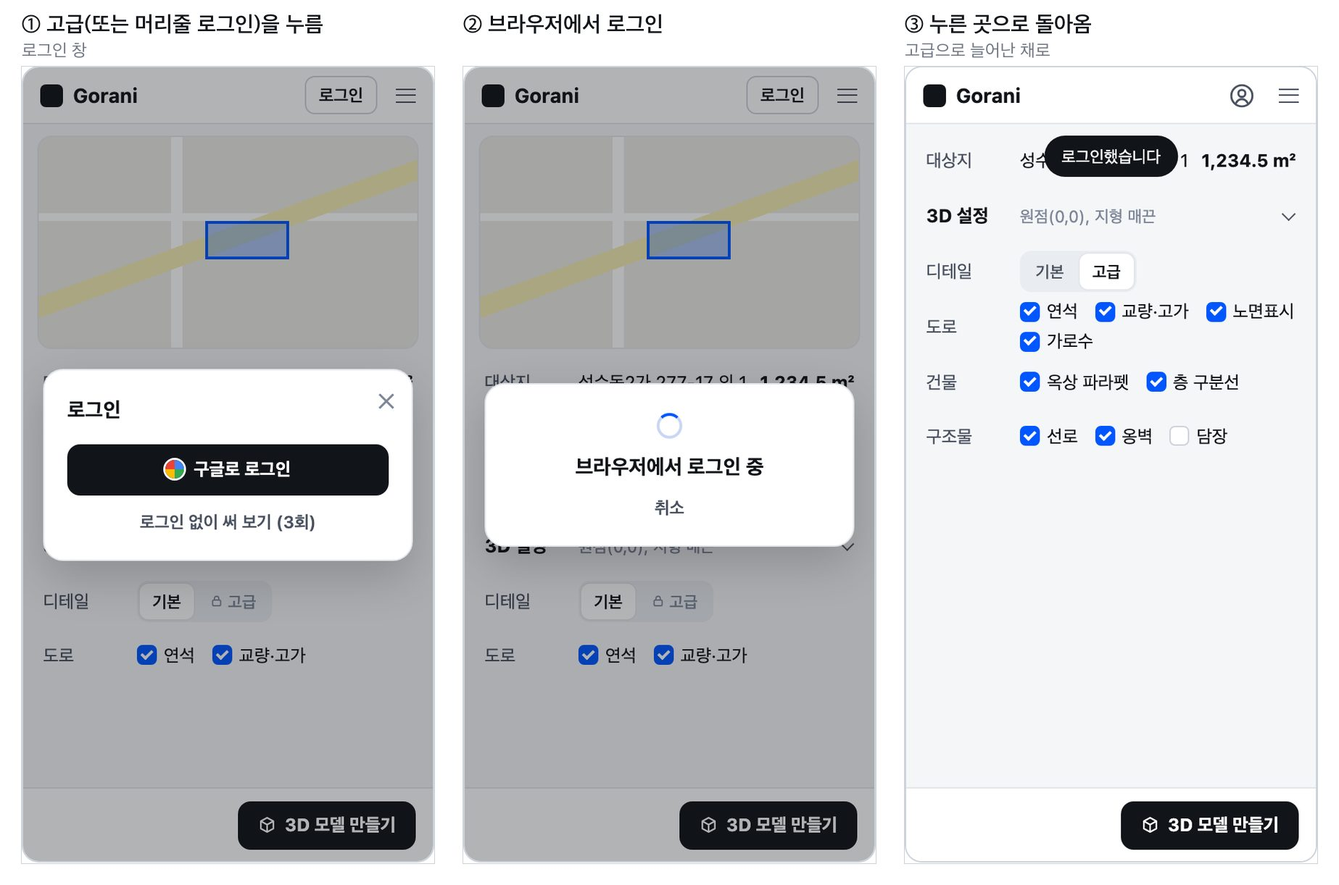
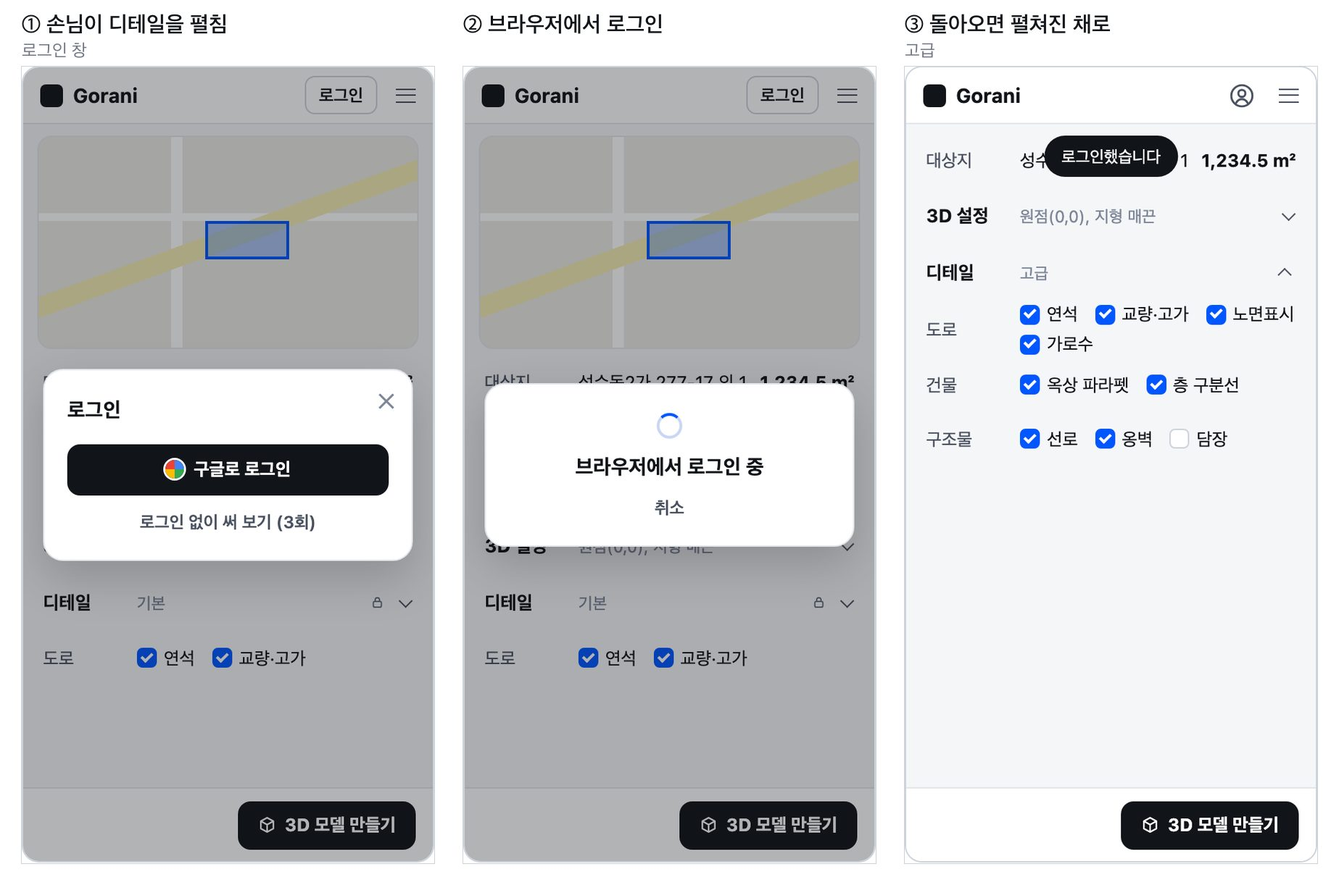
docs: 회원 계획 — 디테일은 단추 없이 3D 설정과 같은 접는 줄(접힘 = 기본, 펼침 = 고급), 와이어프레임 v19

diff --git a/docs/preview/account/wireframe.html b/docs/preview/account/wireframe.html
@@ -216,6 +216,8 @@
   .pn .acpop .r .m { color: #7d8798; }
   .pn .hrow .st { flex: none; width: 26px; height: 26px; display: inline-grid; place-items: center; color: #aab2bd; font-size: 16px; }
   .pn .hrow .st.on { color: #111418; }
+</style><style>
+  .pn .dlk { color: #5f6878; display: inline-flex; margin-right: 2px; }
 </style></head>
 <body>
 <svg width="0" height="0" style="position:absolute">
@@ -224,4 +226,4 @@
   <symbol id="cube" viewBox="0 0 16 16"><path d="M8 1.8l5.4 3v6.4L8 14.2l-5.4-3V4.8z M2.6 4.8L8 7.8l5.4-3 M8 7.8v6.4" fill="none" stroke="currentColor" stroke-width="1.4" stroke-linejoin="round"/></symbol>
 </svg>
 
-<h1>Gorani 회원·고급 디테일 — 와이어프레임 v18</h1><p class="lead">꾸밈과 안내 문구 없이 지금 패널의 줄·단추 꼴만 씁니다. 손님은 머리줄 [로그인], 회원은 그 자리에 계정 기호. 디테일 줄은 [기본 | 고급] 단추 그 자체 — 고급을 고르면 늘어나고 기본을 고르면 접힙니다. 로딩·결과 화면은 지금 그대로.</p><h2>A. 고급 디테일</h2><div class="flow"><div class="step"><p class="cap">A1 손님 · 지도 화면</p><div class="pn"><div class="hd"><span class="logo"></span><span class="wm">Gorani</span><span class="login">로그인</span><span class="burger"></span></div><div class="map"><i></i></div><div class="tray" style="padding-top:4px"><div class="trow"><span class="lbl">대상지</span><span class="val">성수동2가 277-17 외 1</span><span class="area">1,234.5 m²</span></div><div class="trow"><span class="lbl">범위</span><span class="seg"><b>원</b><b class="on">사각형</b></span></div><div class="trow"><span class="lbl">한 변</span><span class="seg"><b>500</b><b class="on">1,000</b><b>2,000</b><b>직접</b></span></div><div class="sec"><span class="t">3D 설정</span><span class="s">원점(0,0), 지형 매끈</span><span class="chev"></span></div><div class="trow"><span class="lbl">디테일</span><span class="seg"><b class="on">기본</b><b class="lkd"><svg width="10" height="10"><use href="#lock"/></svg>고급</b></span></div><div class="trow"><span class="lbl">도로</span><span class="chks"><span class="ck"><span class="box on"></span>연석</span><span class="ck"><span class="box on"></span>교량·고가</span></span></div></div><div class="foot"><span class="mk"><svg width="13" height="13"><use href="#cube"/></svg>3D 모델 만들기</span></div></div><p class="note">디테일 줄 = [기본 | 고급] 단추 그 자체. 기본이면 도로(연석·교량·고가)만. 손님은 고급에 자물쇠.</p></div><div class="step"><p class="cap">A2 고급(또는 머리줄 로그인)을 누르면</p><div class="pn"><div class="hd"><span class="logo"></span><span class="wm">Gorani</span><span class="login">로그인</span><span class="burger"></span></div><div class="map"><i></i></div><div class="tray" style="padding-top:4px"><div class="trow"><span class="lbl">대상지</span><span class="val">성수동2가 277-17 외 1</span><span class="area">1,234.5 m²</span></div><div class="trow"><span class="lbl">범위</span><span class="seg"><b>원</b><b class="on">사각형</b></span></div><div class="trow"><span class="lbl">한 변</span><span class="seg"><b>500</b><b class="on">1,000</b><b>2,000</b><b>직접</b></span></div><div class="sec"><span class="t">3D 설정</span><span class="s">원점(0,0), 지형 매끈</span><span class="chev"></span></div><div class="trow"><span class="lbl">디테일</span><span class="seg"><b class="on">기본</b><b class="lkd"><svg width="10" height="10"><use href="#lock"/></svg>고급</b></span></div><div class="trow"><span class="lbl">도로</span><span class="chks"><span class="ck"><span class="box on"></span>연석</span><span class="ck"><span class="box on"></span>교량·고가</span></span></div></div><div class="foot"><span class="mk"><svg width="13" height="13"><use href="#cube"/></svg>3D 모델 만들기</span></div><div class="veil"><div class="dlg min"><span class="x">✕</span><h4>로그인</h4><div class="pbtn"><span class="gg"></span>구글로 로그인</div><div class="sbtn">로그인 없이 써 보기 (3회)</div></div></div></div><p class="note">로그인 창. 두 번째 단추는 고급에서 열었을 때만.</p></div><div class="step"><p class="cap">A3 브라우저에서 로그인</p><div class="pn"><div class="hd"><span class="logo"></span><span class="wm">Gorani</span><span class="login">로그인</span><span class="burger"></span></div><div class="map"><i></i></div><div class="tray" style="padding-top:4px"><div class="trow"><span class="lbl">대상지</span><span class="val">성수동2가 277-17 외 1</span><span class="area">1,234.5 m²</span></div><div class="trow"><span class="lbl">범위</span><span class="seg"><b>원</b><b class="on">사각형</b></span></div><div class="trow"><span class="lbl">한 변</span><span class="seg"><b>500</b><b class="on">1,000</b><b>2,000</b><b>직접</b></span></div><div class="sec"><span class="t">3D 설정</span><span class="s">원점(0,0), 지형 매끈</span><span class="chev"></span></div><div class="trow"><span class="lbl">디테일</span><span class="seg"><b class="on">기본</b><b class="lkd"><svg width="10" height="10"><use href="#lock"/></svg>고급</b></span></div><div class="trow"><span class="lbl">도로</span><span class="chks"><span class="ck"><span class="box on"></span>연석</span><span class="ck"><span class="box on"></span>교량·고가</span></span></div></div><div class="foot"><span class="mk"><svg width="13" height="13"><use href="#cube"/></svg>3D 모델 만들기</span></div><div class="veil"><div class="dlg min" style="text-align:center"><div class="spin"></div><h4 style="margin:0 0 4px">브라우저에서 로그인 중</h4><div class="sbtn">취소</div></div></div></div><p class="note">로그인은 브라우저가 합니다.</p></div><div class="step"><p class="cap">A4 돌아오면 — 고급으로 늘어남</p><div class="pn"><div class="hd"><span class="logo"></span><span class="wm">Gorani</span><span class="acct"><svg width="18" height="18" viewBox="0 0 16 16" fill="none" stroke="currentColor" stroke-width="1.3"><circle cx="8" cy="8" r="6.6"/><circle cx="8" cy="6.5" r="2.2"/><path d="M4.4 12.4c.9-1.5 2.1-2.3 3.6-2.3s2.7.8 3.6 2.3" stroke-linecap="round"/></svg></span><span class="burger"></span></div><div class="tray" style="padding-top:6px"><div class="trow"><span class="lbl">대상지</span><span class="val">성수동2가 277-17 외 1</span><span class="area">1,234.5 m²</span></div><div class="sec"><span class="t">3D 설정</span><span class="s">원점(0,0), 지형 매끈</span><span class="chev"></span></div><div class="trow"><span class="lbl">디테일</span><span class="seg"><b>기본</b><b class="on">고급</b></span></div><div class="trow"><span class="lbl">도로</span><span class="chks"><span class="ck"><span class="box on"></span>연석</span><span class="ck"><span class="box on"></span>교량·고가</span><span class="ck"><span class="box on"></span>노면표시</span><span class="ck"><span class="box on"></span>가로수</span></span></div><div class="trow"><span class="lbl">건물</span><span class="chks"><span class="ck"><span class="box on"></span>옥상 파라펫</span><span class="ck"><span class="box on"></span>층 구분선</span></span></div><div class="trow"><span class="lbl">구조물</span><span class="chks"><span class="ck"><span class="box on"></span>선로</span><span class="ck"><span class="box on"></span>옹벽</span><span class="ck"><span class="box"></span>담장</span></span></div></div><div class="foot"><span class="mk"><svg width="13" height="13"><use href="#cube"/></svg>3D 모델 만들기</span></div><div class="toast">로그인했습니다</div></div><p class="note">고급이 눌리면 도로 줄에 노면표시·가로수가 붙고 건물·구조물 줄이 아래로 열립니다(트레이는 지금처럼 스크롤).</p></div><div class="step"><p class="cap">A5 회원 · 기본을 누르면 접힘</p><div class="pn"><div class="hd"><span class="logo"></span><span class="wm">Gorani</span><span class="acct"><svg width="18" height="18" viewBox="0 0 16 16" fill="none" stroke="currentColor" stroke-width="1.3"><circle cx="8" cy="8" r="6.6"/><circle cx="8" cy="6.5" r="2.2"/><path d="M4.4 12.4c.9-1.5 2.1-2.3 3.6-2.3s2.7.8 3.6 2.3" stroke-linecap="round"/></svg></span><span class="burger"></span></div><div class="map"><i></i></div><div class="tray" style="padding-top:4px"><div class="trow"><span class="lbl">대상지</span><span class="val">성수동2가 277-17 외 1</span><span class="area">1,234.5 m²</span></div><div class="trow"><span class="lbl">범위</span><span class="seg"><b>원</b><b class="on">사각형</b></span></div><div class="trow"><span class="lbl">한 변</span><span class="seg"><b>500</b><b class="on">1,000</b><b>2,000</b><b>직접</b></span></div><div class="sec"><span class="t">3D 설정</span><span class="s">원점(0,0), 지형 매끈</span><span class="chev"></span></div><div class="trow"><span class="lbl">디테일</span><span class="seg"><b class="on">기본</b><b>고급</b></span></div><div class="trow"><span class="lbl">도로</span><span class="chks"><span class="ck"><span class="box on"></span>연석</span><span class="ck"><span class="box on"></span>교량·고가</span></span></div></div><div class="foot"><span class="mk"><svg width="13" height="13"><use href="#cube"/></svg>3D 모델 만들기</span></div></div><p class="note">기본 = 접힌 상태. 따로 펼치기 단추가 없습니다.</p></div></div><h2>B. 처음 만들기·로딩·완료</h2><div class="flow"><div class="step"><p class="cap">B1 처음 [3D 모델 만들기] (한 번만)</p><div class="pn"><div class="hd"><span class="logo"></span><span class="wm">Gorani</span><span class="login">로그인</span><span class="burger"></span></div><div class="map"><i></i></div><div class="tray" style="padding-top:4px"><div class="trow"><span class="lbl">대상지</span><span class="val">성수동2가 277-17 외 1</span><span class="area">1,234.5 m²</span></div><div class="trow"><span class="lbl">범위</span><span class="seg"><b>원</b><b class="on">사각형</b></span></div><div class="trow"><span class="lbl">한 변</span><span class="seg"><b>500</b><b class="on">1,000</b><b>2,000</b><b>직접</b></span></div><div class="sec"><span class="t">3D 설정</span><span class="s">원점(0,0), 지형 매끈</span><span class="chev"></span></div><div class="trow"><span class="lbl">디테일</span><span class="seg"><b class="on">기본</b><b class="lkd"><svg width="10" height="10"><use href="#lock"/></svg>고급</b></span></div><div class="trow"><span class="lbl">도로</span><span class="chks"><span class="ck"><span class="box on"></span>연석</span><span class="ck"><span class="box on"></span>교량·고가</span></span></div></div><div class="foot"><span class="mk"><svg width="13" height="13"><use href="#cube"/></svg>3D 모델 만들기</span></div><div class="veil"><div class="dlg min"><span class="x">✕</span><h4>로그인</h4><div class="pbtn"><span class="gg"></span>구글로 로그인</div><div class="sbtn">로그인 없이 만들기</div></div></div></div><p class="note">같은 로그인 창. 고르면 바로 만듭니다.</p></div><div class="step"><p class="cap">B2 로딩 · 지금 화면 그대로</p><div class="pn"><div class="hd"><span class="logo"></span><span class="wm">Gorani</span><span class="login off">로그인</span><span class="burger"></span></div><div class="runcard"><div class="top"><h4>3D 모델 만드는 중</h4><span class="cancel"><i></i>취소</span></div><div class="meta">성수동2가 277-17 외 1, 1,234.5 m², 사각형 한 변 2,000 m · 기본</div><div class="trk"><div class="fl" style="width:50%"></div><span class="rn" style="left:calc((100% - 48px) * 0.5)"><svg xmlns="http://www.w3.org/2000/svg" width="48" height="36" viewBox="0 0 64 48"><g fill="none" stroke="currentColor" stroke-linecap="round" stroke-linejoin="round"><path d="M21.00 25.60L15.89 34.19" stroke-width="5"/><path d="M15.89 34.19L2.92 35.15" stroke-width="2.6"/><path d="M41.00 27.60L46.03 35.06" stroke-width="3.6"/><path d="M46.03 35.06L52.74 45.01" stroke-width="2.4"/><path d="M21.00 25.60L14.84 33.48" stroke-width="5"/><path d="M14.84 33.48L2.97 38.77" stroke-width="2.6"/><path d="M41.00 27.60L47.02 34.29" stroke-width="3.6"/><path d="M47.02 34.29L55.05 43.21" stroke-width="2.4"/></g><g fill="currentColor" transform="translate(0 1.60)"><path d="M13 21C13 14 20 11 27 13C33 15 39 17 44 19C49 21 49 29 43 30.5C35 32 26 31 19 29.5C15 28.5 13 25 13 21Z"/><path d="M40 21C43 15 47 11 51 9L56 13C52 17 48 23 46 29Z"/><path d="M49 7C53 4.5 58 6.5 62 11C63.5 13 62.5 15 60.5 15H54C50.5 15 48 11.5 49 7Z"/><path d="M51 8C49 3 45.5 0 42 0.5C42 4 45 8 49.5 11Z"/><path d="M14 17C12 14.5 11 12.5 11.5 11C13.5 12 15 14 16 16Z"/></g></svg></span></div><div class="pm"><span><b>50</b> %</span><span>0:14</span></div><ul class="ph"><li><span class="okk">✓</span>건물과 지형 불러오기<span class="det">건물 1,842동</span></li><li class="run"><span class="dot"></span>3D 모델 만들기</li><li class="pend"><span class="ring"></span>Rhino 파일에 넣기</li></ul><div class="rnote">Rhino 안에서 만들어 Rhino 화면이 잠깐씩 멈출 수 있습니다.</div></div><div class="logline">▸ 로그 자세히 보기 (1줄)</div></div><p class="note">만드는 동안 패널은 엔진을 기다려 다른 단추를 받지 않습니다 — 머리줄 [로그인]도 잠깁니다.</p></div><div class="step"><p class="cap">B3 생성 완료 — 지금과 같음</p><div class="pn"><div class="hd"><span class="logo"></span><span class="wm">Gorani</span><span class="login">로그인</span><span class="burger"></span></div><div class="card2"><h4>3D 모델 생성 완료 <span class="m">0:08</span><span class="sp"></span><span class="btnw" style="margin:0">폴더 열기</span></h4><div class="m">성수동2가 277-17 외 1, 1,234.5 m²</div></div><div class="card2"><h4>2D 자료도 만들까요?<span class="sp"></span><span class="btnw" style="margin:0">2D 자료 만들기</span></h4><div class="opt2"><span>▢</span><span>베이스맵<small>Illustrator 레이어 도면 (.ai)</small></span></div><div class="opt2"><span>▦</span><span>다이어그램<small>현황도와 분석도 (.svg, .ai)</small></span></div><div class="opt2"><span>▤</span><span>조서<small>필지와 건축물 표 (엑셀 CSV)</small></span></div></div></div><p class="note">결과 화면은 그대로. 손님이면 머리줄 [로그인]만.</p></div></div><h2>C. 생성 기록 — 회원만</h2><div class="flow"><div class="step"><p class="cap">C1 손님 · 지도(대상지 없음)</p><div class="pn"><div class="hd"><span class="logo"></span><span class="wm">Gorani</span><span class="login">로그인</span><span class="burger"></span></div><div class="map"></div><div class="tray"><div class="rech">최근 결과<span class="sp"></span></div><div class="rec"><span class="nm">성수동2가 277-17 외 1</span><span class="mt">3D, 2D · 11-14</span></div><div class="rec"><span class="nm">을지로3가 구역</span><span class="mt">3D · 11-14</span></div><div class="rec"><span class="nm">Shibuya, Tokyo</span><span class="mt">3D · 11-10</span></div></div><div class="foot"><span class="mk" style="opacity:.45"><svg width="13" height="13"><use href="#cube"/></svg>3D 모델 만들기</span></div></div><p class="note">손님에게는 생성 기록이 없습니다. '최근 결과'(지금 기능)는 그대로.</p></div><div class="step"><p class="cap">C2 회원 · 지도(대상지 없음)</p><div class="pn"><div class="hd"><span class="logo"></span><span class="wm">Gorani</span><span class="acct"><svg width="18" height="18" viewBox="0 0 16 16" fill="none" stroke="currentColor" stroke-width="1.3"><circle cx="8" cy="8" r="6.6"/><circle cx="8" cy="6.5" r="2.2"/><path d="M4.4 12.4c.9-1.5 2.1-2.3 3.6-2.3s2.7.8 3.6 2.3" stroke-linecap="round"/></svg></span><span class="burger"></span></div><div class="map"></div><div class="tray"><div class="rech">최근 결과<span class="sp"></span><a>생성 기록 ›</a></div><div class="rec"><span class="nm">성수동2가 277-17 외 1</span><span class="mt">3D, 2D · 11-14</span></div><div class="rec"><span class="nm">을지로3가 구역</span><span class="mt">3D · 11-14</span></div><div class="rec"><span class="nm">Shibuya, Tokyo</span><span class="mt">3D · 11-10</span></div></div><div class="foot"><span class="mk" style="opacity:.45"><svg width="13" height="13"><use href="#cube"/></svg>3D 모델 만들기</span></div></div><p class="note">회원에게만 '생성 기록 ›'.</p></div><div class="step"><p class="cap">C3 회원 · 생성 기록</p><div class="pn"><div class="hd"><span class="logo"></span><span class="wm">Gorani</span><span class="acct"><svg width="18" height="18" viewBox="0 0 16 16" fill="none" stroke="currentColor" stroke-width="1.3"><circle cx="8" cy="8" r="6.6"/><circle cx="8" cy="6.5" r="2.2"/><path d="M4.4 12.4c.9-1.5 2.1-2.3 3.6-2.3s2.7.8 3.6 2.3" stroke-linecap="round"/></svg></span><span class="burger"></span></div><div class="scr"><span class="back">← 지도로</span><span class="ttl">생성 기록</span></div><div class="segw" style="margin-top:10px"><span class="seg"><b class="on">전체</b><b>★</b></span></div><div class="grpd">오늘</div><div class="hrow"><span class="th"><i></i></span><span class="tx"><div class="nm">성수동2가 277-17 외 1</div><div class="mt">15:02 · 사각형 1 km · 고급</div></span><span class="st on">★</span></div><div class="hrow"><span class="th"><i></i></span><span class="tx"><div class="nm">을지로3가 구역</div><div class="mt">11:40 · 사각형 2 km · 기본</div></span><span class="st">☆</span></div><div class="grpd">이번 주</div><div class="hrow"><span class="th"><i></i></span><span class="tx"><div class="nm">연남동 239-5</div><div class="mt">11-09 · 원 500 m · 고급</div></span><span class="st">☆</span></div><div class="hrow"><span class="th"><i></i></span><span class="tx"><div class="nm">Shibuya, Tokyo</div><div class="mt">11-10 · 사각형 1 km · 기본</div></span><span class="st on">★</span></div></div><p class="note">검색 없음. 기록마다 오른쪽 ☆로 즐겨찾기, 위 [전체 | ★]로 거르기. PC 구분 없이 아이디 하나에 모은 기록.</p></div></div><h2>D. 계정</h2><div class="flow"><div class="step"><p class="cap">D1 회원 · 계정 기호를 누르면</p><div class="pn"><div class="hd"><span class="logo"></span><span class="wm">Gorani</span><span class="acct on"><svg width="18" height="18" viewBox="0 0 16 16" fill="none" stroke="currentColor" stroke-width="1.3"><circle cx="8" cy="8" r="6.6"/><circle cx="8" cy="6.5" r="2.2"/><path d="M4.4 12.4c.9-1.5 2.1-2.3 3.6-2.3s2.7.8 3.6 2.3" stroke-linecap="round"/></svg></span><span class="burger"></span></div><div class="map"><i></i></div><div class="tray" style="padding-top:4px"><div class="trow"><span class="lbl">대상지</span><span class="val">성수동2가 277-17 외 1</span><span class="area">1,234.5 m²</span></div><div class="trow"><span class="lbl">범위</span><span class="seg"><b>원</b><b class="on">사각형</b></span></div><div class="trow"><span class="lbl">한 변</span><span class="seg"><b>500</b><b class="on">1,000</b><b>2,000</b><b>직접</b></span></div><div class="sec"><span class="t">3D 설정</span><span class="s">원점(0,0), 지형 매끈</span><span class="chev"></span></div><div class="trow"><span class="lbl">디테일</span><span class="seg"><b class="on">기본</b><b>고급</b></span></div><div class="trow"><span class="lbl">도로</span><span class="chks"><span class="ck"><span class="box on"></span>연석</span><span class="ck"><span class="box on"></span>교량·고가</span></span></div></div><div class="foot"><span class="mk"><svg width="13" height="13"><use href="#cube"/></svg>3D 모델 만들기</span></div><div class="acpop"><div class="r"><span class="v">name@gmail.com</span><span class="btnw" style="margin:0">로그아웃</span></div><div class="r"><span class="v">생성 기록</span><span class="m">23 ›</span></div></div></div><p class="note">메일·[로그아웃]과 생성 기록. 더보기 메뉴(설정·도움)는 지금과 같습니다.</p></div></div></body></html>
+<h1>Gorani 회원·고급 디테일 — 와이어프레임 v19</h1><p class="lead">꾸밈과 안내 문구 없이 지금 패널의 줄·단추 꼴만 씁니다. 손님은 머리줄 [로그인], 회원은 그 자리에 계정 기호. 디테일은 3D 설정과 같은 접는 줄 — 펼치면 고급(늘어남), 접으면 기본. 요약에 기본·고급이 늘 보입니다. 로딩·결과 화면은 지금 그대로.</p><h2>A. 고급 디테일</h2><div class="flow"><div class="step"><p class="cap">A1 손님 · 지도 화면</p><div class="pn"><div class="hd"><span class="logo"></span><span class="wm">Gorani</span><span class="login">로그인</span><span class="burger"></span></div><div class="map"><i></i></div><div class="tray" style="padding-top:4px"><div class="trow"><span class="lbl">대상지</span><span class="val">성수동2가 277-17 외 1</span><span class="area">1,234.5 m²</span></div><div class="trow"><span class="lbl">범위</span><span class="seg"><b>원</b><b class="on">사각형</b></span></div><div class="trow"><span class="lbl">한 변</span><span class="seg"><b>500</b><b class="on">1,000</b><b>2,000</b><b>직접</b></span></div><div class="sec"><span class="t">3D 설정</span><span class="s">원점(0,0), 지형 매끈</span><span class="chev"></span></div><div class="sec"><span class="t">디테일</span><span class="s">기본</span><span class="dlk"><svg width="10" height="10"><use href="#lock"/></svg></span><span class="chev"></span></div><div class="trow"><span class="lbl">도로</span><span class="chks"><span class="ck"><span class="box on"></span>연석</span><span class="ck"><span class="box on"></span>교량·고가</span></span></div></div><div class="foot"><span class="mk"><svg width="13" height="13"><use href="#cube"/></svg>3D 모델 만들기</span></div></div><p class="note">디테일은 3D 설정과 같은 접는 줄. 접힘 = 기본(도로: 연석·교량·고가). 손님은 ▾ 앞에 자물쇠.</p></div><div class="step"><p class="cap">A2 손님이 펼치면</p><div class="pn"><div class="hd"><span class="logo"></span><span class="wm">Gorani</span><span class="login">로그인</span><span class="burger"></span></div><div class="map"><i></i></div><div class="tray" style="padding-top:4px"><div class="trow"><span class="lbl">대상지</span><span class="val">성수동2가 277-17 외 1</span><span class="area">1,234.5 m²</span></div><div class="trow"><span class="lbl">범위</span><span class="seg"><b>원</b><b class="on">사각형</b></span></div><div class="trow"><span class="lbl">한 변</span><span class="seg"><b>500</b><b class="on">1,000</b><b>2,000</b><b>직접</b></span></div><div class="sec"><span class="t">3D 설정</span><span class="s">원점(0,0), 지형 매끈</span><span class="chev"></span></div><div class="sec"><span class="t">디테일</span><span class="s">기본</span><span class="dlk"><svg width="10" height="10"><use href="#lock"/></svg></span><span class="chev"></span></div><div class="trow"><span class="lbl">도로</span><span class="chks"><span class="ck"><span class="box on"></span>연석</span><span class="ck"><span class="box on"></span>교량·고가</span></span></div></div><div class="foot"><span class="mk"><svg width="13" height="13"><use href="#cube"/></svg>3D 모델 만들기</span></div><div class="veil"><div class="dlg min"><span class="x">✕</span><h4>로그인</h4><div class="pbtn"><span class="gg"></span>구글로 로그인</div><div class="sbtn">로그인 없이 써 보기 (3회)</div></div></div></div><p class="note">펼치기 = 고급이라 로그인 창.</p></div><div class="step"><p class="cap">A3 브라우저에서 로그인</p><div class="pn"><div class="hd"><span class="logo"></span><span class="wm">Gorani</span><span class="login">로그인</span><span class="burger"></span></div><div class="map"><i></i></div><div class="tray" style="padding-top:4px"><div class="trow"><span class="lbl">대상지</span><span class="val">성수동2가 277-17 외 1</span><span class="area">1,234.5 m²</span></div><div class="trow"><span class="lbl">범위</span><span class="seg"><b>원</b><b class="on">사각형</b></span></div><div class="trow"><span class="lbl">한 변</span><span class="seg"><b>500</b><b class="on">1,000</b><b>2,000</b><b>직접</b></span></div><div class="sec"><span class="t">3D 설정</span><span class="s">원점(0,0), 지형 매끈</span><span class="chev"></span></div><div class="sec"><span class="t">디테일</span><span class="s">기본</span><span class="dlk"><svg width="10" height="10"><use href="#lock"/></svg></span><span class="chev"></span></div><div class="trow"><span class="lbl">도로</span><span class="chks"><span class="ck"><span class="box on"></span>연석</span><span class="ck"><span class="box on"></span>교량·고가</span></span></div></div><div class="foot"><span class="mk"><svg width="13" height="13"><use href="#cube"/></svg>3D 모델 만들기</span></div><div class="veil"><div class="dlg min" style="text-align:center"><div class="spin"></div><h4 style="margin:0 0 4px">브라우저에서 로그인 중</h4><div class="sbtn">취소</div></div></div></div><p class="note">로그인은 브라우저가 합니다.</p></div><div class="step"><p class="cap">A4 돌아오면 — 펼쳐진 채로(고급)</p><div class="pn"><div class="hd"><span class="logo"></span><span class="wm">Gorani</span><span class="acct"><svg width="18" height="18" viewBox="0 0 16 16" fill="none" stroke="currentColor" stroke-width="1.3"><circle cx="8" cy="8" r="6.6"/><circle cx="8" cy="6.5" r="2.2"/><path d="M4.4 12.4c.9-1.5 2.1-2.3 3.6-2.3s2.7.8 3.6 2.3" stroke-linecap="round"/></svg></span><span class="burger"></span></div><div class="tray" style="padding-top:6px"><div class="trow"><span class="lbl">대상지</span><span class="val">성수동2가 277-17 외 1</span><span class="area">1,234.5 m²</span></div><div class="sec"><span class="t">3D 설정</span><span class="s">원점(0,0), 지형 매끈</span><span class="chev"></span></div><div class="sec"><span class="t">디테일</span><span class="s">고급</span><span class="chev up"></span></div><div class="trow"><span class="lbl">도로</span><span class="chks"><span class="ck"><span class="box on"></span>연석</span><span class="ck"><span class="box on"></span>교량·고가</span><span class="ck"><span class="box on"></span>노면표시</span><span class="ck"><span class="box on"></span>가로수</span></span></div><div class="trow"><span class="lbl">건물</span><span class="chks"><span class="ck"><span class="box on"></span>옥상 파라펫</span><span class="ck"><span class="box on"></span>층 구분선</span></span></div><div class="trow"><span class="lbl">구조물</span><span class="chks"><span class="ck"><span class="box on"></span>선로</span><span class="ck"><span class="box on"></span>옹벽</span><span class="ck"><span class="box"></span>담장</span></span></div></div><div class="foot"><span class="mk"><svg width="13" height="13"><use href="#cube"/></svg>3D 모델 만들기</span></div><div class="toast">로그인했습니다</div></div><p class="note">줄 요약이 '고급'으로. 도로 줄에 노면표시·가로수가 붙고 건물·구조물 줄이 열립니다.</p></div><div class="step"><p class="cap">A5 회원이 접으면 — 기본</p><div class="pn"><div class="hd"><span class="logo"></span><span class="wm">Gorani</span><span class="acct"><svg width="18" height="18" viewBox="0 0 16 16" fill="none" stroke="currentColor" stroke-width="1.3"><circle cx="8" cy="8" r="6.6"/><circle cx="8" cy="6.5" r="2.2"/><path d="M4.4 12.4c.9-1.5 2.1-2.3 3.6-2.3s2.7.8 3.6 2.3" stroke-linecap="round"/></svg></span><span class="burger"></span></div><div class="map"><i></i></div><div class="tray" style="padding-top:4px"><div class="trow"><span class="lbl">대상지</span><span class="val">성수동2가 277-17 외 1</span><span class="area">1,234.5 m²</span></div><div class="trow"><span class="lbl">범위</span><span class="seg"><b>원</b><b class="on">사각형</b></span></div><div class="trow"><span class="lbl">한 변</span><span class="seg"><b>500</b><b class="on">1,000</b><b>2,000</b><b>직접</b></span></div><div class="sec"><span class="t">3D 설정</span><span class="s">원점(0,0), 지형 매끈</span><span class="chev"></span></div><div class="sec"><span class="t">디테일</span><span class="s">기본</span><span class="chev"></span></div><div class="trow"><span class="lbl">도로</span><span class="chks"><span class="ck"><span class="box on"></span>연석</span><span class="ck"><span class="box on"></span>교량·고가</span></span></div></div><div class="foot"><span class="mk"><svg width="13" height="13"><use href="#cube"/></svg>3D 모델 만들기</span></div></div><p class="note">▴를 눌러 접으면 기본으로(요약 '기본'). 펼침 = 고급, 접힘 = 기본.</p></div></div><h2>B. 처음 만들기·로딩·완료</h2><div class="flow"><div class="step"><p class="cap">B1 처음 [3D 모델 만들기] (한 번만)</p><div class="pn"><div class="hd"><span class="logo"></span><span class="wm">Gorani</span><span class="login">로그인</span><span class="burger"></span></div><div class="map"><i></i></div><div class="tray" style="padding-top:4px"><div class="trow"><span class="lbl">대상지</span><span class="val">성수동2가 277-17 외 1</span><span class="area">1,234.5 m²</span></div><div class="trow"><span class="lbl">범위</span><span class="seg"><b>원</b><b class="on">사각형</b></span></div><div class="trow"><span class="lbl">한 변</span><span class="seg"><b>500</b><b class="on">1,000</b><b>2,000</b><b>직접</b></span></div><div class="sec"><span class="t">3D 설정</span><span class="s">원점(0,0), 지형 매끈</span><span class="chev"></span></div><div class="sec"><span class="t">디테일</span><span class="s">기본</span><span class="dlk"><svg width="10" height="10"><use href="#lock"/></svg></span><span class="chev"></span></div><div class="trow"><span class="lbl">도로</span><span class="chks"><span class="ck"><span class="box on"></span>연석</span><span class="ck"><span class="box on"></span>교량·고가</span></span></div></div><div class="foot"><span class="mk"><svg width="13" height="13"><use href="#cube"/></svg>3D 모델 만들기</span></div><div class="veil"><div class="dlg min"><span class="x">✕</span><h4>로그인</h4><div class="pbtn"><span class="gg"></span>구글로 로그인</div><div class="sbtn">로그인 없이 만들기</div></div></div></div><p class="note">같은 로그인 창. 고르면 바로 만듭니다.</p></div><div class="step"><p class="cap">B2 로딩 · 지금 화면 그대로</p><div class="pn"><div class="hd"><span class="logo"></span><span class="wm">Gorani</span><span class="login off">로그인</span><span class="burger"></span></div><div class="runcard"><div class="top"><h4>3D 모델 만드는 중</h4><span class="cancel"><i></i>취소</span></div><div class="meta">성수동2가 277-17 외 1, 1,234.5 m², 사각형 한 변 2,000 m · 기본</div><div class="trk"><div class="fl" style="width:50%"></div><span class="rn" style="left:calc((100% - 48px) * 0.5)"><svg xmlns="http://www.w3.org/2000/svg" width="48" height="36" viewBox="0 0 64 48"><g fill="none" stroke="currentColor" stroke-linecap="round" stroke-linejoin="round"><path d="M21.00 25.60L15.89 34.19" stroke-width="5"/><path d="M15.89 34.19L2.92 35.15" stroke-width="2.6"/><path d="M41.00 27.60L46.03 35.06" stroke-width="3.6"/><path d="M46.03 35.06L52.74 45.01" stroke-width="2.4"/><path d="M21.00 25.60L14.84 33.48" stroke-width="5"/><path d="M14.84 33.48L2.97 38.77" stroke-width="2.6"/><path d="M41.00 27.60L47.02 34.29" stroke-width="3.6"/><path d="M47.02 34.29L55.05 43.21" stroke-width="2.4"/></g><g fill="currentColor" transform="translate(0 1.60)"><path d="M13 21C13 14 20 11 27 13C33 15 39 17 44 19C49 21 49 29 43 30.5C35 32 26 31 19 29.5C15 28.5 13 25 13 21Z"/><path d="M40 21C43 15 47 11 51 9L56 13C52 17 48 23 46 29Z"/><path d="M49 7C53 4.5 58 6.5 62 11C63.5 13 62.5 15 60.5 15H54C50.5 15 48 11.5 49 7Z"/><path d="M51 8C49 3 45.5 0 42 0.5C42 4 45 8 49.5 11Z"/><path d="M14 17C12 14.5 11 12.5 11.5 11C13.5 12 15 14 16 16Z"/></g></svg></span></div><div class="pm"><span><b>50</b> %</span><span>0:14</span></div><ul class="ph"><li><span class="okk">✓</span>건물과 지형 불러오기<span class="det">건물 1,842동</span></li><li class="run"><span class="dot"></span>3D 모델 만들기</li><li class="pend"><span class="ring"></span>Rhino 파일에 넣기</li></ul><div class="rnote">Rhino 안에서 만들어 Rhino 화면이 잠깐씩 멈출 수 있습니다.</div></div><div class="logline">▸ 로그 자세히 보기 (1줄)</div></div><p class="note">만드는 동안 패널은 엔진을 기다려 다른 단추를 받지 않습니다 — 머리줄 [로그인]도 잠깁니다.</p></div><div class="step"><p class="cap">B3 생성 완료 — 지금과 같음</p><div class="pn"><div class="hd"><span class="logo"></span><span class="wm">Gorani</span><span class="login">로그인</span><span class="burger"></span></div><div class="card2"><h4>3D 모델 생성 완료 <span class="m">0:08</span><span class="sp"></span><span class="btnw" style="margin:0">폴더 열기</span></h4><div class="m">성수동2가 277-17 외 1, 1,234.5 m²</div></div><div class="card2"><h4>2D 자료도 만들까요?<span class="sp"></span><span class="btnw" style="margin:0">2D 자료 만들기</span></h4><div class="opt2"><span>▢</span><span>베이스맵<small>Illustrator 레이어 도면 (.ai)</small></span></div><div class="opt2"><span>▦</span><span>다이어그램<small>현황도와 분석도 (.svg, .ai)</small></span></div><div class="opt2"><span>▤</span><span>조서<small>필지와 건축물 표 (엑셀 CSV)</small></span></div></div></div><p class="note">결과 화면은 그대로. 손님이면 머리줄 [로그인]만.</p></div></div><h2>C. 생성 기록 — 회원만</h2><div class="flow"><div class="step"><p class="cap">C1 손님 · 지도(대상지 없음)</p><div class="pn"><div class="hd"><span class="logo"></span><span class="wm">Gorani</span><span class="login">로그인</span><span class="burger"></span></div><div class="map"></div><div class="tray"><div class="rech">최근 결과<span class="sp"></span></div><div class="rec"><span class="nm">성수동2가 277-17 외 1</span><span class="mt">3D, 2D · 11-14</span></div><div class="rec"><span class="nm">을지로3가 구역</span><span class="mt">3D · 11-14</span></div><div class="rec"><span class="nm">Shibuya, Tokyo</span><span class="mt">3D · 11-10</span></div></div><div class="foot"><span class="mk" style="opacity:.45"><svg width="13" height="13"><use href="#cube"/></svg>3D 모델 만들기</span></div></div><p class="note">손님에게는 생성 기록이 없습니다. '최근 결과'(지금 기능)는 그대로.</p></div><div class="step"><p class="cap">C2 회원 · 지도(대상지 없음)</p><div class="pn"><div class="hd"><span class="logo"></span><span class="wm">Gorani</span><span class="acct"><svg width="18" height="18" viewBox="0 0 16 16" fill="none" stroke="currentColor" stroke-width="1.3"><circle cx="8" cy="8" r="6.6"/><circle cx="8" cy="6.5" r="2.2"/><path d="M4.4 12.4c.9-1.5 2.1-2.3 3.6-2.3s2.7.8 3.6 2.3" stroke-linecap="round"/></svg></span><span class="burger"></span></div><div class="map"></div><div class="tray"><div class="rech">최근 결과<span class="sp"></span><a>생성 기록 ›</a></div><div class="rec"><span class="nm">성수동2가 277-17 외 1</span><span class="mt">3D, 2D · 11-14</span></div><div class="rec"><span class="nm">을지로3가 구역</span><span class="mt">3D · 11-14</span></div><div class="rec"><span class="nm">Shibuya, Tokyo</span><span class="mt">3D · 11-10</span></div></div><div class="foot"><span class="mk" style="opacity:.45"><svg width="13" height="13"><use href="#cube"/></svg>3D 모델 만들기</span></div></div><p class="note">회원에게만 '생성 기록 ›'.</p></div><div class="step"><p class="cap">C3 회원 · 생성 기록</p><div class="pn"><div class="hd"><span class="logo"></span><span class="wm">Gorani</span><span class="acct"><svg width="18" height="18" viewBox="0 0 16 16" fill="none" stroke="currentColor" stroke-width="1.3"><circle cx="8" cy="8" r="6.6"/><circle cx="8" cy="6.5" r="2.2"/><path d="M4.4 12.4c.9-1.5 2.1-2.3 3.6-2.3s2.7.8 3.6 2.3" stroke-linecap="round"/></svg></span><span class="burger"></span></div><div class="scr"><span class="back">← 지도로</span><span class="ttl">생성 기록</span></div><div class="segw" style="margin-top:10px"><span class="seg"><b class="on">전체</b><b>★</b></span></div><div class="grpd">오늘</div><div class="hrow"><span class="th"><i></i></span><span class="tx"><div class="nm">성수동2가 277-17 외 1</div><div class="mt">15:02 · 사각형 1 km · 고급</div></span><span class="st on">★</span></div><div class="hrow"><span class="th"><i></i></span><span class="tx"><div class="nm">을지로3가 구역</div><div class="mt">11:40 · 사각형 2 km · 기본</div></span><span class="st">☆</span></div><div class="grpd">이번 주</div><div class="hrow"><span class="th"><i></i></span><span class="tx"><div class="nm">연남동 239-5</div><div class="mt">11-09 · 원 500 m · 고급</div></span><span class="st">☆</span></div><div class="hrow"><span class="th"><i></i></span><span class="tx"><div class="nm">Shibuya, Tokyo</div><div class="mt">11-10 · 사각형 1 km · 기본</div></span><span class="st on">★</span></div></div><p class="note">검색 없음. 기록마다 오른쪽 ☆로 즐겨찾기, 위 [전체 | ★]로 거르기. PC 구분 없이 아이디 하나에 모은 기록.</p></div></div><h2>D. 계정</h2><div class="flow"><div class="step"><p class="cap">D1 회원 · 계정 기호를 누르면</p><div class="pn"><div class="hd"><span class="logo"></span><span class="wm">Gorani</span><span class="acct on"><svg width="18" height="18" viewBox="0 0 16 16" fill="none" stroke="currentColor" stroke-width="1.3"><circle cx="8" cy="8" r="6.6"/><circle cx="8" cy="6.5" r="2.2"/><path d="M4.4 12.4c.9-1.5 2.1-2.3 3.6-2.3s2.7.8 3.6 2.3" stroke-linecap="round"/></svg></span><span class="burger"></span></div><div class="map"><i></i></div><div class="tray" style="padding-top:4px"><div class="trow"><span class="lbl">대상지</span><span class="val">성수동2가 277-17 외 1</span><span class="area">1,234.5 m²</span></div><div class="trow"><span class="lbl">범위</span><span class="seg"><b>원</b><b class="on">사각형</b></span></div><div class="trow"><span class="lbl">한 변</span><span class="seg"><b>500</b><b class="on">1,000</b><b>2,000</b><b>직접</b></span></div><div class="sec"><span class="t">3D 설정</span><span class="s">원점(0,0), 지형 매끈</span><span class="chev"></span></div><div class="sec"><span class="t">디테일</span><span class="s">기본</span><span class="chev"></span></div><div class="trow"><span class="lbl">도로</span><span class="chks"><span class="ck"><span class="box on"></span>연석</span><span class="ck"><span class="box on"></span>교량·고가</span></span></div></div><div class="foot"><span class="mk"><svg width="13" height="13"><use href="#cube"/></svg>3D 모델 만들기</span></div><div class="acpop"><div class="r"><span class="v">name@gmail.com</span><span class="btnw" style="margin:0">로그아웃</span></div><div class="r"><span class="v">생성 기록</span><span class="m">23 ›</span></div></div></div><p class="note">메일·[로그아웃]과 생성 기록. 더보기 메뉴(설정·도움)는 지금과 같습니다.</p></div></div></body></html>
